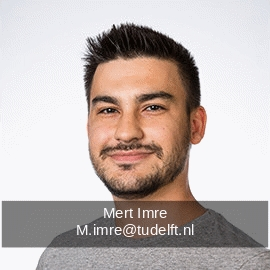
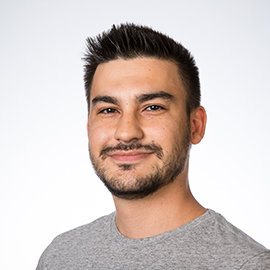
People photos with name and contact information, the font and script used to generate them are added

Changed region(s): [[0.0, 0.7407, 1.0, 0.9185], [0.3259, 0.4444, 0.3556, 0.4741]]

diff --git a/_pages/people.html b/_pages/people.html
@@ -19,7 +19,7 @@ author_profile: false
         <div class="box">
             {% for post in heads %}
             <a href="{{ post.permalink }}" style="width: auto">
-                <img src="{{ post.image }}" alt="{{ post.title }}"  class="img-gallery" style="width:240px;border-radius:50%;margin:10px"/>
+                <img src="{{ post.stamped_image }}" alt="{{ post.title }}"  class="img-gallery" style="width:240px;border-radius:50%;margin:10px"/>
             </a>
             {% endfor %}
         </div>
@@ -33,7 +33,7 @@ author_profile: false
     <div class="box">
         {% for post in researchers %}
         <a href="{{ post.permalink }}" style="display: inline-block;" >
-            <img src="{{ post.image }}" alt="{{ post.title }}"  class="img-gallery" style="width:240px;border-radius:50%;margin:10px"/>
+            <img src="{{ post.stamped_image }}" alt="{{ post.title }}"  class="img-gallery" style="width:240px;border-radius:50%;margin:10px"/>
         </a>
         {% endfor %}
     </div>
@@ -47,7 +47,7 @@ author_profile: false
     <div class="box">
         {% for post in phd %}
         <a href="{{ post.permalink }}" style="display: inline-block;" >
-            <img src="{{ post.image }}" alt="{{ post.title }}"  class="img-gallery" style="width:240px;border-radius:50%;margin:10px"/>
+            <img src="{{ post.stamped_image }}" alt="{{ post.title }}"  class="img-gallery" style="width:240px;border-radius:50%;margin:10px"/>
         </a>
         {% endfor %}
     </div>

diff --git a/custom_scripts/stamp_info.py b/custom_scripts/stamp_info.py
@@ -1,0 +1,33 @@
+from PIL import Image, ImageDraw, ImageFont
+import sys
+
+print("use python 3 if you have multiple versions. PIL should be installed.")
+if sys.argv[1] == '--h' or sys.argv[1] == 'help' or len(sys.argv) != 4:
+    print("Use following format, where fullname is separated by _ rather than a space:\npython stamp_info.py img_file fullname contact\nie:\npython stamp_info mert.jpg Mert_Imre M.imre@tudelft.nl\nNote that fullname is split by _")
+
+else:
+    img_name = sys.argv[1]
+    name = sys.argv[2]
+    contact = sys.argv[3]
+
+    img = Image.open(img_name)
+    firstline_text = name.replace('_', ' ')
+    secondline_text = contact
+
+    width, height = img.size
+
+    I1 = ImageDraw.Draw(img, 'RGBA')
+    base_height = (11/16) * height
+    margin = 5
+
+    title_font = ImageFont.truetype('./fonts/US101.TTF', 20)
+    width_first, height_first = I1.textsize(firstline_text, font=title_font)
+
+    width_second, height_second = I1.textsize(secondline_text, font=title_font)
+
+    I1.rectangle((0, base_height, width, base_height+height_first+height_second+margin), fill=(0, 0, 0, 127))
+
+    I1.text(((width-width_first)/2, base_height), firstline_text, font=title_font, fill =(255, 255, 255))
+    I1.text(((width-width_second)/2, base_height+height_first), secondline_text, font=title_font, fill =(255, 255, 255))
+
+    img.save(img_name[:-4] + "_stamped.png")

diff --git a/_people/carlos.md b/_people/carlos.md
@@ -5,7 +5,8 @@ role: researcher
 permalink: /people/carlos
 weburl: 'https://scholar.google.nl/citations?user=4cnt9iYAAAAJ&hl=en'
 image: ../images/carlos.jpg
-contact: C.E.CeleminPaez@tudelft.nl
+stamped_image: ../images/carlos_stamped.png
+contact: C.E.CeleminPaez_AT_tudelft.nl
 layout: archive
 ---
 {% include base_path %}

diff --git a/_people/leandro.md b/_people/leandro.md
@@ -5,5 +5,6 @@ role: researcher
 permalink: /people/leandro
 weburl: 'https://scholar.google.com.br/citations?user=y_6cHi4AAAAJ&hl=en'
 image: ../images/leandro.jpg
-contact: l.desouzarosa@tudelft.nl
+stamped_image: ../images/leandro_stamped.png
+contact: l.desouzarosa_AT_tudelft.nl
 ---

diff --git a/_people/rodrigo.md b/_people/rodrigo.md
@@ -5,5 +5,6 @@ role: phd
 permalink: /people/rodrigo
 weburl: 'https://www.tudelft.nl/staff/r.j.perezdattari/?cHash=5828cee4bdebfb6a575f00793a2566d5'
 image: ../images/rodrigo.jpg
+stamped_image: ../images/rodrigo_stamped.png
 contact: R.J.PerezDattari_AT_tudelft.nl
 ---

diff --git a/_people/zlatan.md b/_people/zlatan.md
@@ -5,5 +5,6 @@ role: researcher
 permalink: /people/zlatan
 weburl: 'https://www.tudelft.nl/en/staff/z.ajanovic/'
 image: ../images/zlatan.jpg
-contact: Z.Ajanovic@tudelft.nl
+stamped_image: ../images/zlatan_stamped.png
+contact: Z.Ajanovic_AT_tudelft.nl
 ---

diff --git a/_people/ravi.md b/_people/ravi.md
@@ -5,5 +5,6 @@ role: researcher
 permalink: /people/ravi
 weburl: 'https://www.tudelft.nl/en/staff/r.prakash-1/'
 image: ../images/ravi.jpg
-contact: R.Prakash-1@tudelft.nl
+stamped_image: ../images/ravi_stamped.png
+contact: R.Prakash-1_AT_tudelft.nl
 ---

diff --git a/_people/marta.md b/_people/marta.md
@@ -5,5 +5,6 @@ role: researcher
 permalink: /people/marta
 weburl: 'https://www.tudelft.nl/staff/m.ferraz/'
 image: ../images/marta.jpg
-contact: m.ferraz@tudelft.nl
+stamped_image: ../images/marta_stamped.png
+contact: m.ferraz_AT_tudelft.nl
 ---

diff --git a/_people/tomas.md b/_people/tomas.md
@@ -5,5 +5,6 @@ role: phd
 permalink: /people/tomas
 weburl: 'https://www.tudelft.nl/en/staff/t.coleman/'
 image: ../images/tomas.jpg
-contact: t.coleman@tudelft.nl
+stamped_image: ../images/tomas_stamped.png
+contact: t.coleman_AT_tudelft.nl
 ---

diff --git a/_people/jelle.md b/_people/jelle.md
@@ -5,5 +5,6 @@ role: phd
 permalink: /people/jelle
 weburl: 'https://www.tudelft.nl/staff/j.d.luijkx'
 image: ../images/jelle.jpg
-contact: J.D.Luijkx@tudelft.nl
+stamped_image: ../images/jelle_stamped.png
+contact: J.D.Luijkx_AT_tudelft.nl
 ---

diff --git a/_people/jihong.md b/_people/jihong.md
@@ -5,6 +5,7 @@ role: researcher
 permalink: /people/jihong
 weburl: 'https://www.tudelft.nl/staff/j.zhu-3/'
 image: ../images/jihong.jpg
+stamped_image: ../images/jihong_stamped.png
 contact: J.Zhu-3@tudelft.nl
 layout: archive
 ---

diff --git a/_people/giovanni.md b/_people/giovanni.md
@@ -5,5 +5,6 @@ role: phd
 permalink: /people/giovanni
 weburl: 'https://www.tudelft.nl/en/staff/g.franzese/'
 image: ../images/giovanni.jpg
+stamped_image: ../images/giovanni_stamped.png
 contact: G.Franzese_AT_tudelft.nl
 ---
